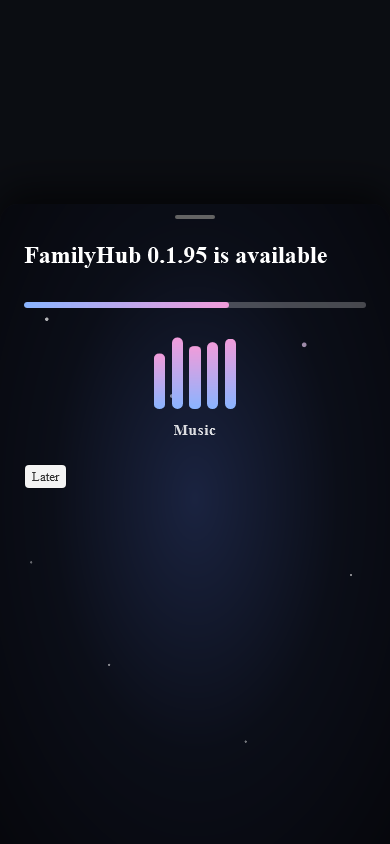
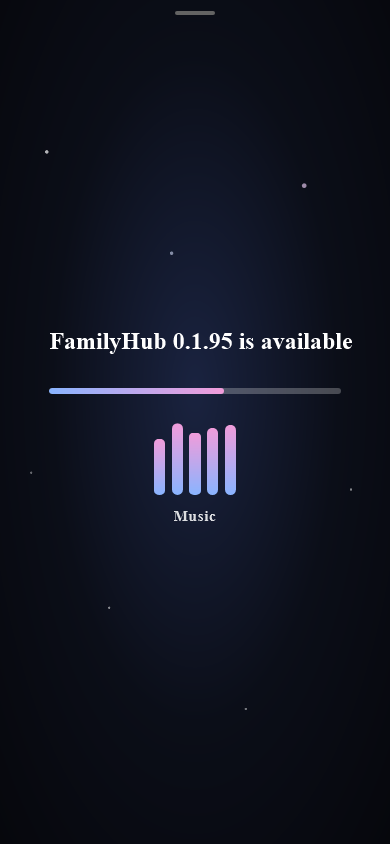
Update popup becomes fullscreen while downloading, hides Later, no scrollbar

diff --git a/clients/FamilyHub.App/wwwroot/startup.css b/clients/FamilyHub.App/wwwroot/startup.css
@@ -113,3 +113,10 @@
     .app-update .update-stage { animation:none; }
 }
 .popup-panel.update-dialog .dialog-heading { background:transparent; }
+
+/* While the update downloads the popup becomes the whole screen: no Later, no close, no scrollbars from the sliding scenes. */
+.update-stage, .app-update .update-stage { overflow:clip; }
+.popup-panel.update-dialog:has(.is-morphing):is([open],.is-open) { inset:0; width:100%; max-width:none; height:100dvh; max-height:none; border-radius:0; padding:max(1.5rem, env(safe-area-inset-top)) 1.5rem max(1.5rem, env(safe-area-inset-bottom)); overflow:hidden; display:grid; place-content:center; justify-items:center; text-align:center; }
+.popup-panel.update-dialog:has(.is-morphing) .dialog-heading { position:static; justify-content:center; }
+.popup-panel.update-dialog:has(.is-morphing) .dialog-heading > button, .popup-panel.update-dialog:has(.is-morphing) #update-later { display:none; }
+.popup-panel.update-dialog:has(.is-morphing) .app-update { width:min(26rem, 100%); }
